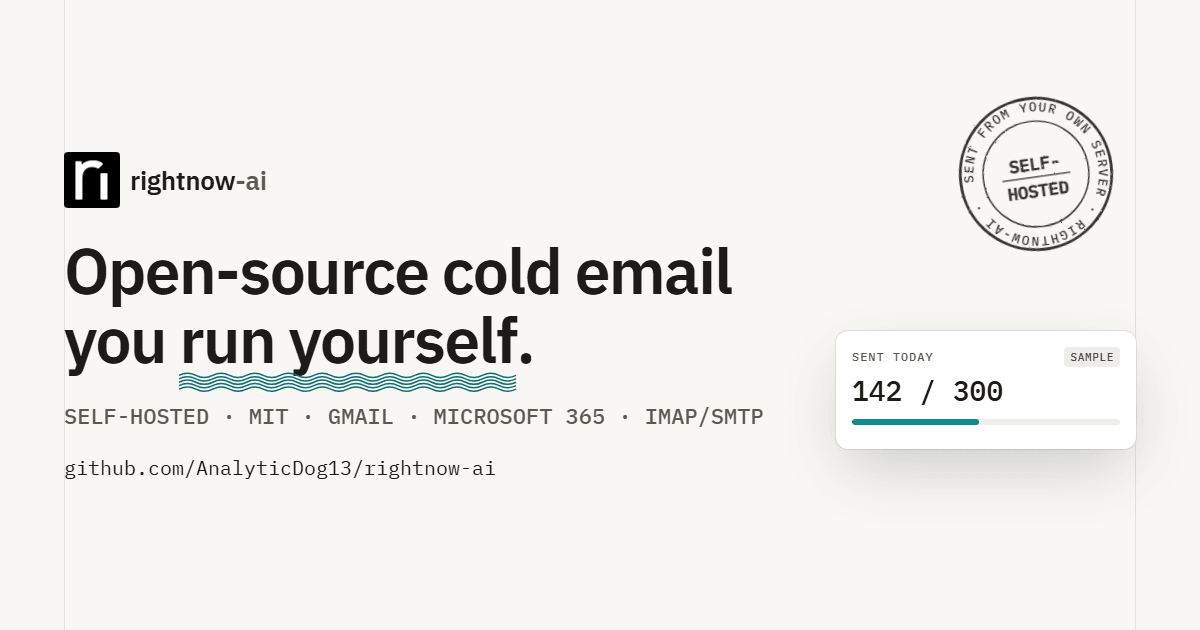
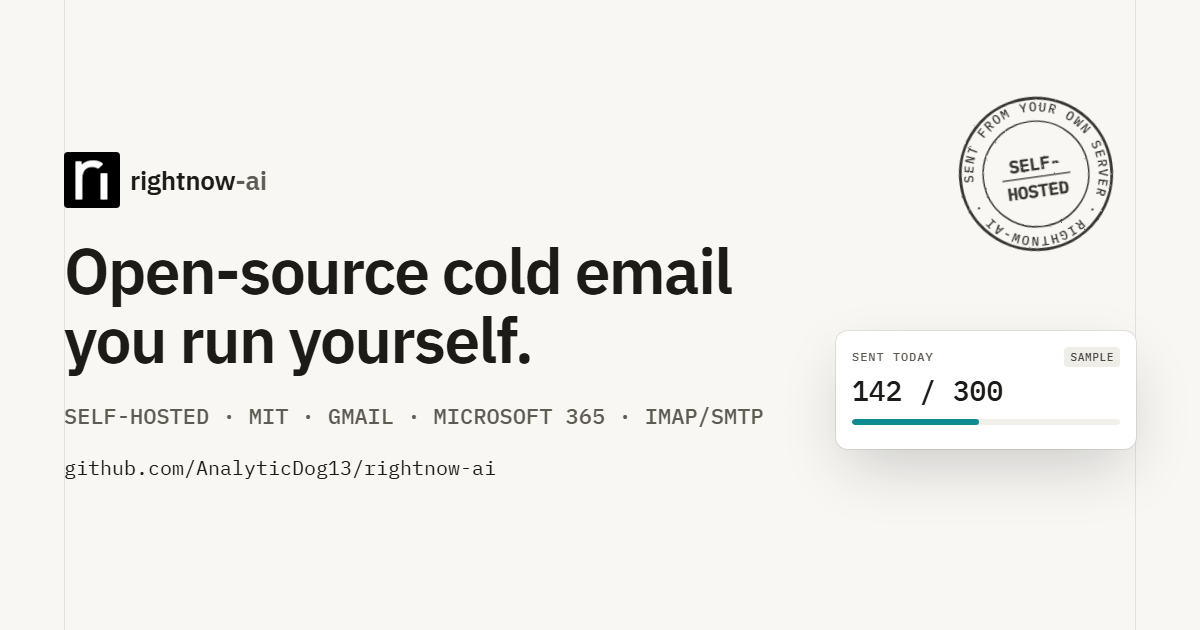
style(site): re-render the social card without the wavy underline

Changed region(s): [[0.1542, 0.573, 0.4317, 0.6333]]

diff --git a/site/tools/og-template.html b/site/tools/og-template.html
@@ -12,7 +12,7 @@
 <div class="og-in">
   <div class="og-l">
     <p class="brand"><img class="logo" src="../assets/img/rightnow-logo.svg" alt="" width="56" height="56"><span>rightnow<span>-ai</span></span></p>
-    <h1>Open-source cold email you <span class="ww">run yourself<svg class="wave" viewBox="0 0 240 24" preserveAspectRatio="none" aria-hidden="true"><path pathLength="1" d="M0 4q6-5 12 0t12 0 12 0 12 0 12 0 12 0 12 0 12 0 12 0 12 0 12 0 12 0 12 0 12 0 12 0 12 0 12 0 12 0 12 0 12 0"/><path pathLength="1" d="M0 8q6-5 12 0t12 0 12 0 12 0 12 0 12 0 12 0 12 0 12 0 12 0 12 0 12 0 12 0 12 0 12 0 12 0 12 0 12 0 12 0 12 0"/><path pathLength="1" d="M0 12q6-5 12 0t12 0 12 0 12 0 12 0 12 0 12 0 12 0 12 0 12 0 12 0 12 0 12 0 12 0 12 0 12 0 12 0 12 0 12 0 12 0"/><path pathLength="1" d="M0 16q6-5 12 0t12 0 12 0 12 0 12 0 12 0 12 0 12 0 12 0 12 0 12 0 12 0 12 0 12 0 12 0 12 0 12 0 12 0 12 0 12 0"/><path pathLength="1" d="M0 20q6-5 12 0t12 0 12 0 12 0 12 0 12 0 12 0 12 0 12 0 12 0 12 0 12 0 12 0 12 0 12 0 12 0 12 0 12 0 12 0 12 0"/></svg></span>.</h1>
+    <h1>Open-source cold email you <span class="ww">run yourself</span>.</h1>
     <p class="og-tags">SELF-HOSTED · MIT · GMAIL · MICROSOFT 365 · IMAP/SMTP</p>
     <p class="og-url">github.com/AnalyticDog13/rightnow-ai</p>
   </div>
